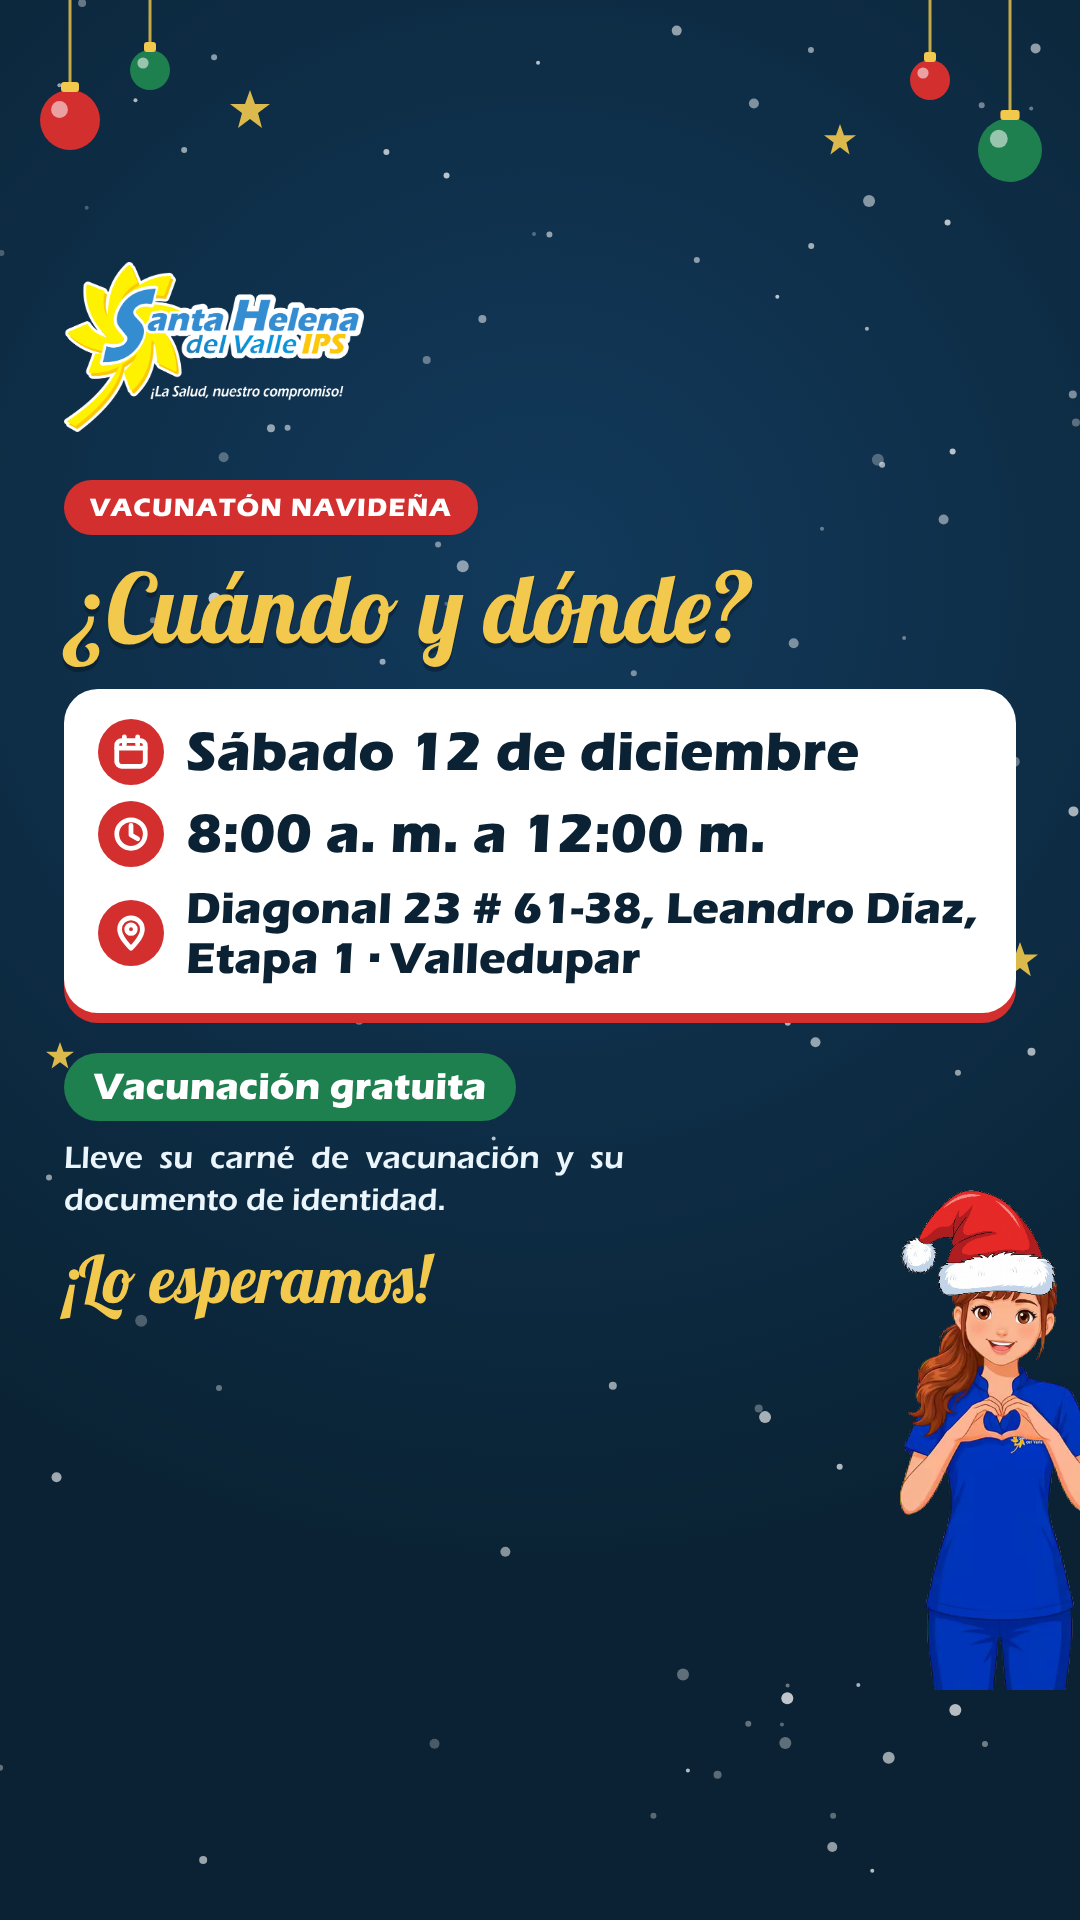
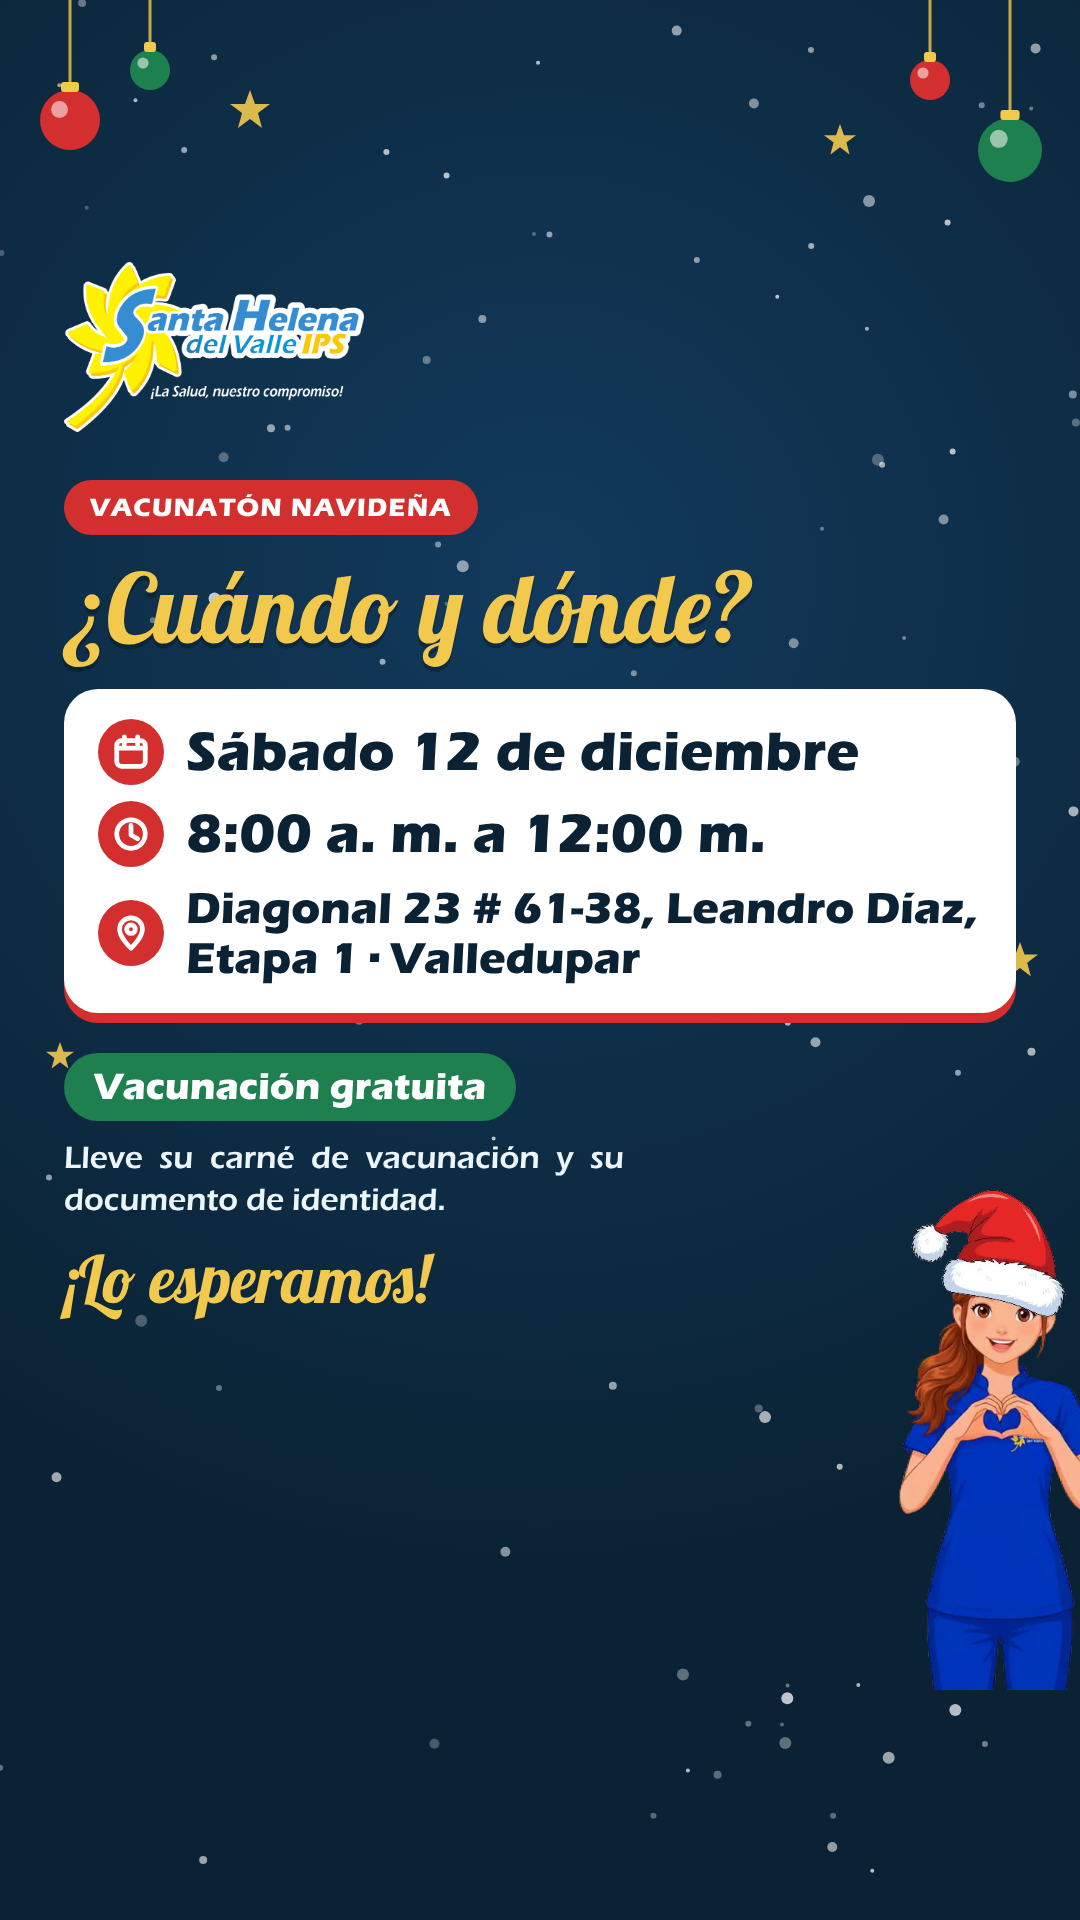
Vacunatón Navideña: Helenita oficial con gorro del Agente Helenita
Claude-Session: https://claude.ai/code/session_01KgBCaN2Nb7mn6jAyyriR7q

Changed region(s): [[0.825, 0.5938, 1.0, 0.7812]]

diff --git a/entregas/creativo-instagram/2026-11-26-vacunaton-navidena/LEAME.md b/entregas/creativo-instagram/2026-11-26-vacunaton-navidena/LEAME.md
@@ -9,6 +9,5 @@ Encargo directo del Agente Copies Redes con texto aprobado por Nicolas
   `vista-A.png` y `vista-B.png`: resumen. Sin WhatsApp ni web (jornada presencial).
 - Letra Eras (manual) y Lobster en el título de la A. Diseño: `fuente/piezas.html?v=A&p=post` (p = post, h1, h2,
   h3, rec); `node fuente/capturar.js` rehace todo.
-- **Helenita PROVISIONAL**: montaje del sticker de Navidad (corazón + gorro). Se cambia por el archivo oficial
-  del Agente Helenita (`marca/helenita/animaciones/navidad/`) cuando llegue: basta reemplazar
-  `fuente/img/helenita-navidad.png` y volver a capturar.
+- Helenita: archivo oficial del Agente Helenita (`marca/helenita/animaciones/navidad/corazon-cuadro.png`, corazón con
+  gorro, 26 nov). Para una historia animada está `corazon.webm` en esa misma carpeta.
